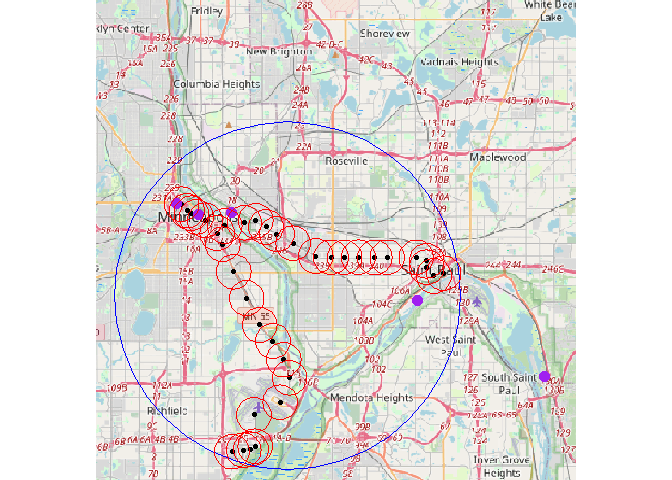
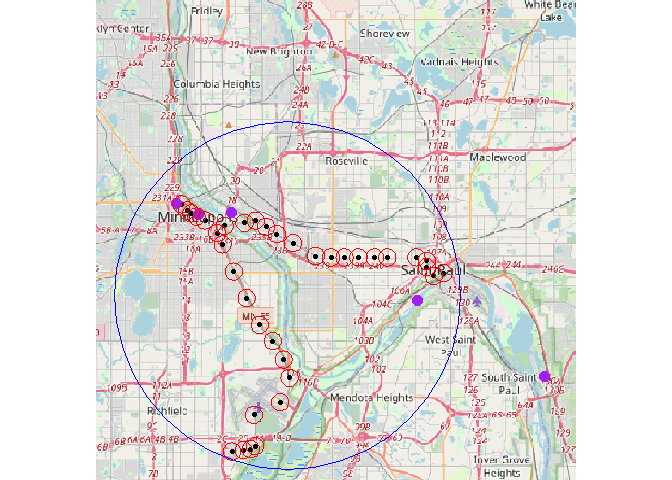
Fixed the buffer size

Changed region(s): [[0.25, 0.4062, 0.6875, 1.0]]

diff --git a/README.md b/README.md
@@ -313,7 +313,7 @@ plot(pts)
 ![](README_files/figure-commonmark/unnamed-chunk-8-1.png)
 
 ``` r
-pts_buffer <- buffer(pts, width = 1000) # Width is measured in meters
+pts_buffer <- buffer(pts, width = 500) # Width is measured in meters
 plot(pts_buffer)
 ```
 
@@ -441,7 +441,7 @@ plot(pts)
 ![](README_files/figure-commonmark/unnamed-chunk-12-1.png)
 
 ``` r
-pts_buffer <- buffer(pts, width = 1000) # Width is measured in meters
+pts_buffer <- buffer(pts, width = 500) # Width is measured in meters
 plot(pts_buffer)
 ```
 
@@ -472,7 +472,7 @@ library("tidyverse")
 #makes of list of files in that folder
 files<-dir("G:/Shared drives/2024 FIRE Light Rail/DATA/GLDAS/")
 
-for(i in 17:3288){
+for(i in 1:3288){
   r<-rast(paste0("G:/Shared drives/2024 FIRE Light Rail/DATA/GLDAS/", files[i]))
 
   names(r)
